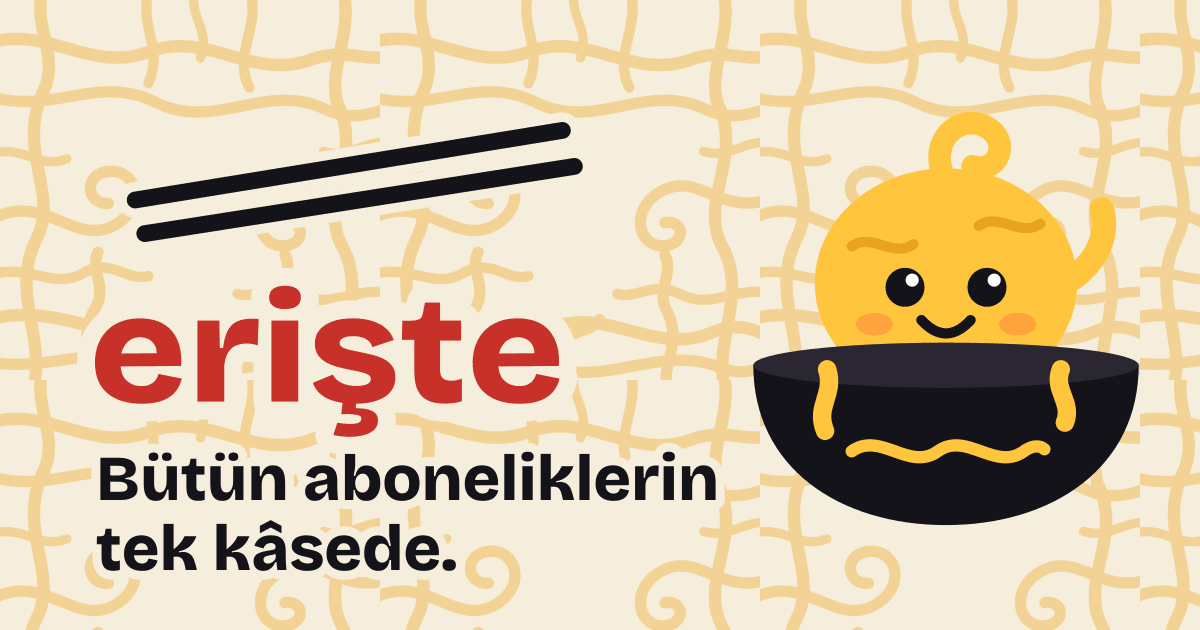
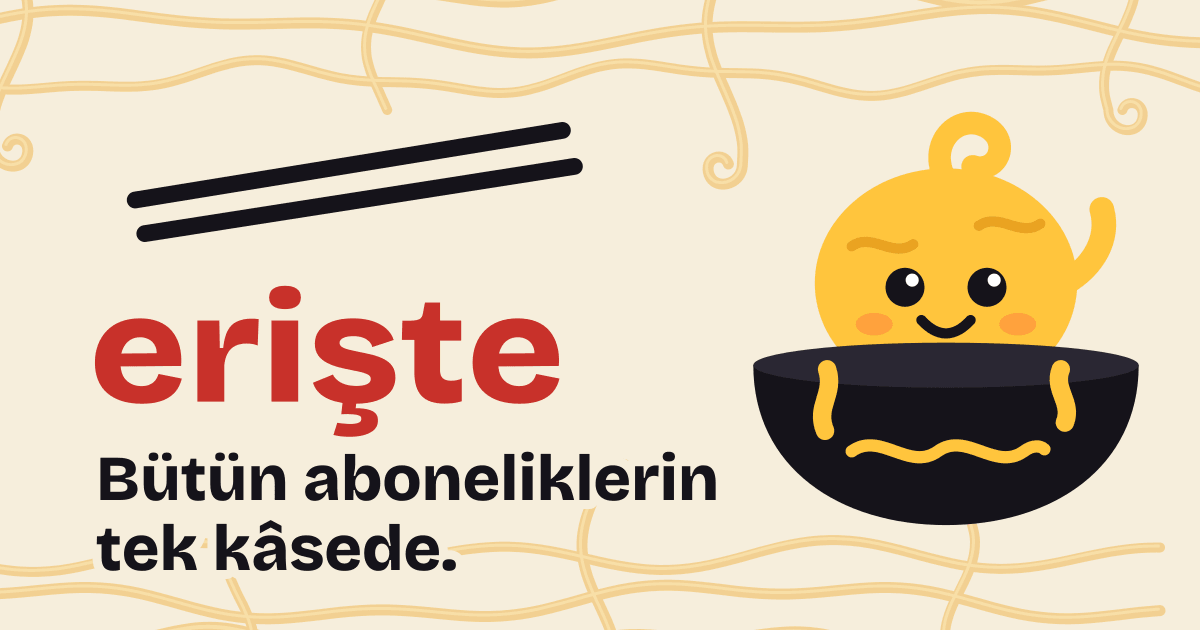
Refactor code structure for improved readability and maintainability

diff --git a/src/styles/tokens.css b/src/styles/tokens.css
@@ -50,7 +50,8 @@
   --shadow-lg: 0 2px 4px rgba(21, 19, 26, 0.05), 0 28px 60px -20px rgba(21, 19, 26, 0.22);
   --placeholder: #e3e1e8;
   --placeholder-text: #7a7681;
-  --noodle-tile: url('/brand/noodles-tile-krem.svg');
+  --noodles-top: url('/brand/noodles-top-krem.svg');
+  --noodles-bottom: url('/brand/noodles-bottom-krem.svg');
   --bubble-bg: #15131a;
   --bubble-text: #f5f3f7;
   --chip-bg: #2a2733;
@@ -79,7 +80,8 @@
     --shadow-lg: 0 2px 4px rgba(0, 0, 0, 0.3), 0 28px 60px -20px rgba(0, 0, 0, 0.7);
     --placeholder: #2a2731;
     --placeholder-text: #8d8995;
-    --noodle-tile: url('/brand/noodles-tile-koyu.svg');
+    --noodles-top: url('/brand/noodles-top-koyu.svg');
+    --noodles-bottom: url('/brand/noodles-bottom-koyu.svg');
     --bubble-bg: #26232d;
     --chip-bg: #3a3643;
     /* Koyu zeminde krem kâse */
@@ -103,7 +105,8 @@
   --btn-text: var(--ink);
   --placeholder: #2a2731;
   --placeholder-text: #8d8995;
-  --noodle-tile: url('/brand/noodles-tile-koyu.svg');
+  --noodles-top: url('/brand/noodles-top-koyu.svg');
+  --noodles-bottom: url('/brand/noodles-bottom-koyu.svg');
   --bubble-bg: #26232d;
   --chip-bg: #3a3643;
   --kase-govde: #f5f3f7;

diff --git a/src/styles/global.css b/src/styles/global.css
@@ -163,6 +163,41 @@ a {
   box-shadow: var(--shadow);
 }
 
+/* Erişte telleri: bölümün üst ve/veya alt kenarından sarkan, yatayda ek yeri olmayan şeritler.
+   Ortası boş kalır; metnin arkası sakin. */
+.noodles,
+.noodles-top,
+.noodles-bottom {
+  --band-h: 170px;
+  background-repeat: repeat-x;
+}
+.noodles {
+  background-image: var(--noodles-top), var(--noodles-bottom);
+  background-position: center top, center bottom;
+  background-size: auto var(--band-h), auto var(--band-h);
+}
+.noodles-top {
+  background-image: var(--noodles-top);
+  background-position: center top;
+  background-size: auto var(--band-h);
+}
+.noodles-bottom {
+  background-image: var(--noodles-bottom);
+  background-position: center bottom;
+  background-size: auto var(--band-h);
+}
+@media (min-width: 900px) {
+  .noodles,
+  .noodles-top,
+  .noodles-bottom {
+    --band-h: 230px;
+  }
+}
+/* Başlıklar tellerin üstüne binmesin */
+.section.noodles {
+  padding-block: calc(var(--band-h) * 0.8);
+}
+
 .card {
   background: var(--card);
   border-radius: var(--r-card);
